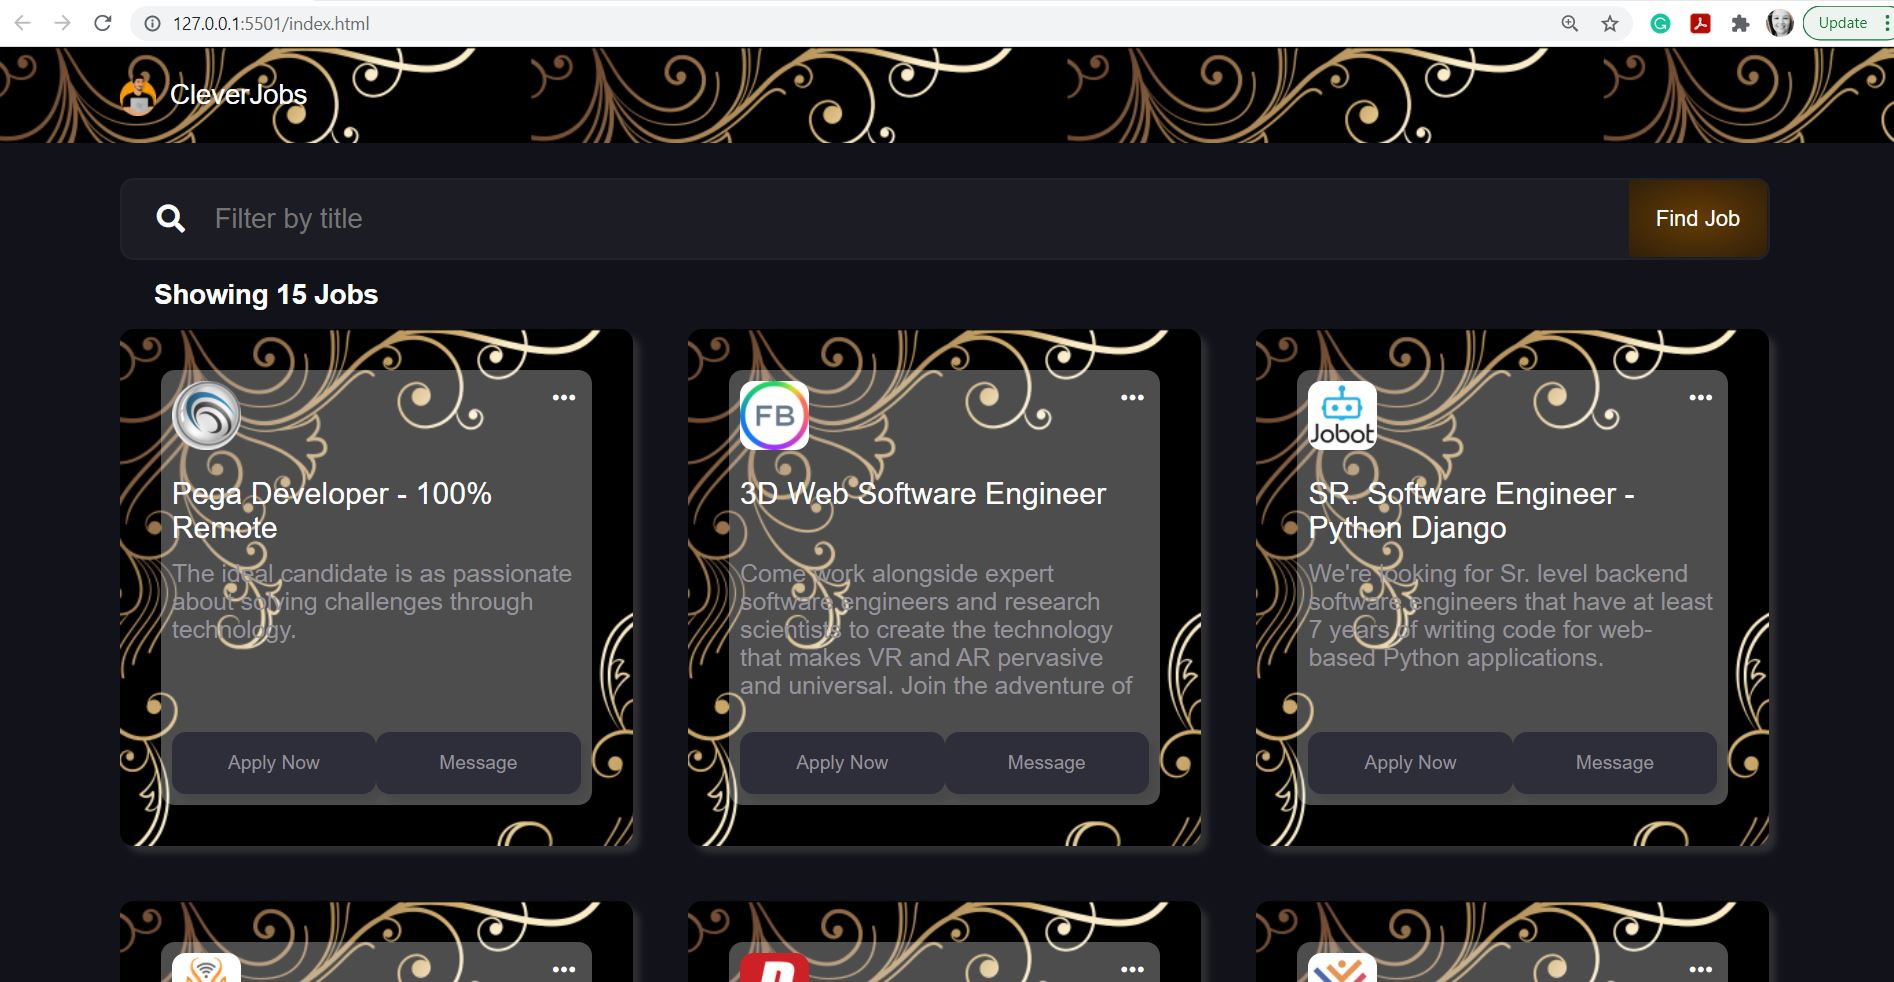
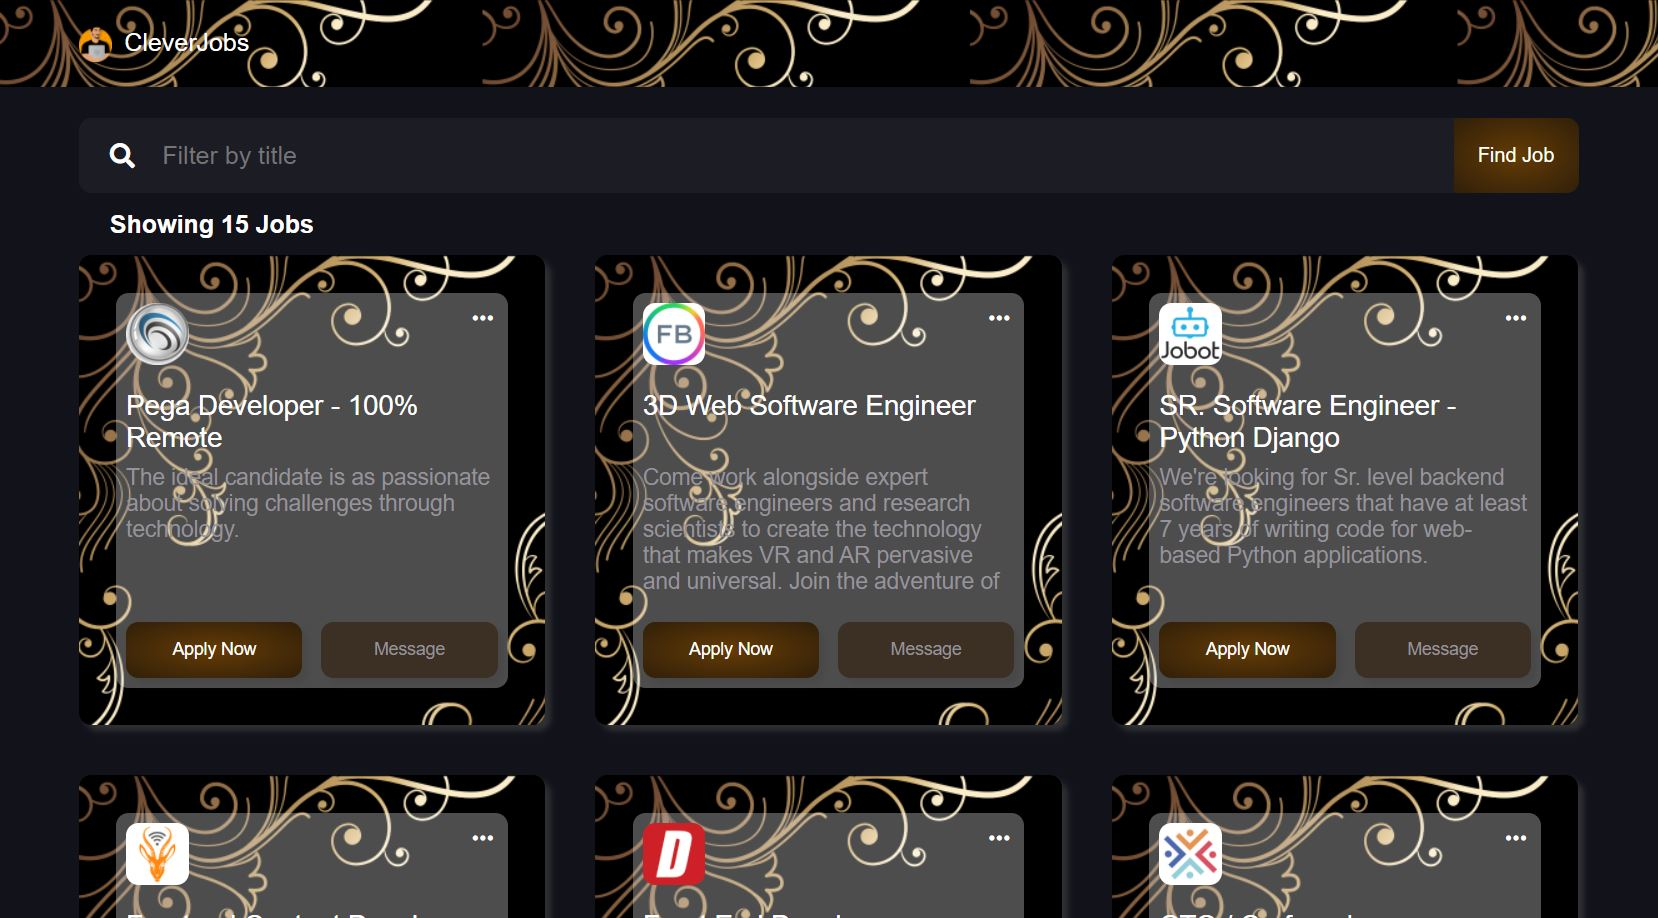
css changes

diff --git a/css/style.css b/css/style.css
@@ -19,12 +19,19 @@ header {
     margin-bottom: 25px;
     background-image: url(../assets/card.png);
 }
-
 .header-container {
+    max-width: 1150px;
+    width: 100%;
+    display: flex; 
+    align-items: flex-start;
+    
+   
+}
+.header-container .logoi{
     max-width: 1250px;
     width: 100%;
     display: flex; 
-    align-items: center;
+    align-items: flex-start;
     padding: 0 25px;
    
 }
@@ -37,7 +44,11 @@ header {
 .header-container .logo img {
     height: 100%;
 }
-
+.header-container .logoi {
+    background-color: black;
+    border-radius: 10px;
+    padding: 10px;
+}
 .search {
     width: 100%;
     max-width: 1250px;
@@ -134,9 +145,9 @@ header {
     transform: scale(1.05);
 }
 .job-tilei{
-    background-color: rgba(255,255,255,0.3);
+    background-color: black;
     border-radius: 10px;
-    padding: 8px;
+    padding: 30px;
 }
 
 .top {       

diff --git a/index.html b/index.html
@@ -12,10 +12,12 @@
 <body>
     <header>
         <div class="header-container">
-            <div class="logo">
-                <img src="https://kajabi-storefronts-production.kajabi-cdn.com/kajabi-storefronts-production/themes/284832/settings_images/rLlCifhXRJiT0RoN2FjK_Logo_roundbackground_black.png" />
+            <div class="logoi">
+                <div class="logo">
+                    <img src="https://kajabi-storefronts-production.kajabi-cdn.com/kajabi-storefronts-production/themes/284832/settings_images/rLlCifhXRJiT0RoN2FjK_Logo_roundbackground_black.png" />
+                </div>
+                <span>CleverJobs</span>
             </div>
-            <span>CleverJobs</span>
         </div>
     </header>
     <div class="search">
